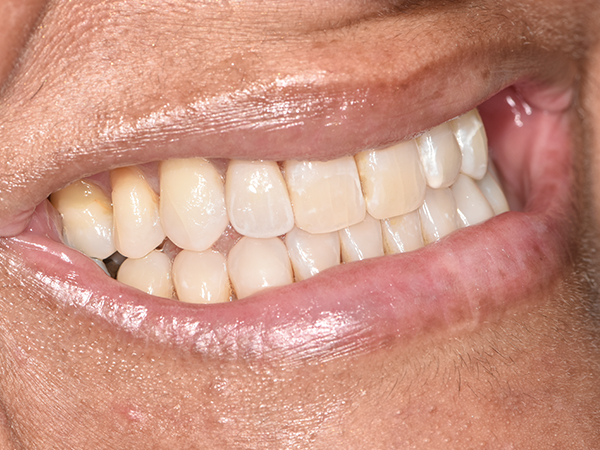
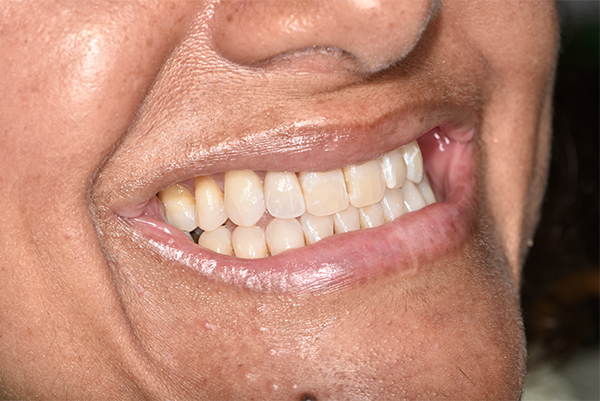
Casos: 3 columnas Antes/Proceso/Después, aspect-ratio 3:2

diff --git a/index.html b/index.html
@@ -1024,26 +1024,28 @@
     }
     .result-card-inner {
       display: grid;
-      grid-template-columns: 1fr 1fr;
+      grid-template-columns: 1fr 1fr 1fr;
       gap: 2px;
-      aspect-ratio: 4/3;
+      aspect-ratio: 3/2;
       background: var(--dark2);
     }
-    .result-before, .result-after {
+    .result-before, .result-proceso, .result-after {
       background: linear-gradient(135deg, var(--dark) 0%, var(--dark2) 100%);
+      background-size: cover;
+      background-position: center;
       display: flex;
       align-items: flex-end;
       justify-content: center;
       padding-bottom: 12px;
     }
     .result-label {
-      font-size: 0.55rem;
+      font-size: 0.5rem;
       font-weight: 700;
       letter-spacing: 3px;
       text-transform: uppercase;
       color: rgba(255,255,255,0.4);
     }
-    /* "Después" usa vino: resultado = identidad de marca, no CTA */
+    .result-proceso .result-label { color: var(--gold); }
     .result-after .result-label { color: var(--wine); }
     .result-info {
       padding: 16px 0;
@@ -2864,13 +2866,17 @@
         <article class="result-card fade-up" aria-label="Caso: Diseño de Sonrisa Completo">
           <div class="result-card-inner">
             <div class="result-before" role="img"
-                 style="background-image:url('assets/caso1-antes.jpg'); background-size:cover; background-position:center;"
-                 aria-label="Antes: sonrisa del paciente antes del diseño de sonrisa con carillas">
+                 style="background-image:url('assets/caso1-antes.jpg');"
+                 aria-label="Antes del diseño de sonrisa con carillas">
               <span class="result-label" aria-hidden="true">Antes</span>
             </div>
+            <div class="result-proceso" role="img"
+                 aria-label="Proceso clínico del diseño de sonrisa">
+              <span class="result-label" aria-hidden="true">Proceso</span>
+            </div>
             <div class="result-after" role="img"
-                 style="background-image:url('assets/caso1-despues.jpg'); background-size:cover; background-position:center;"
-                 aria-label="Después: sonrisa con carillas de porcelana feldespática — Clínica SIMEB Bogotá">
+                 style="background-image:url('assets/caso1-despues.jpg');"
+                 aria-label="Después: sonrisa con carillas de porcelana feldespática">
               <span class="result-label" aria-hidden="true">Después</span>
             </div>
           </div>
@@ -2882,13 +2888,18 @@
         <article class="result-card fade-up delay-1" aria-label="Caso: Rehabilitación con Implantes">
           <div class="result-card-inner">
             <div class="result-before" role="img"
-                 style="background-image:url('assets/caso2-antes.jpg'); background-size:cover; background-position:center;"
-                 aria-label="Antes: paciente con pérdida dental antes de implantes All-on-4">
+                 style="background-image:url('assets/caso2-antes.jpg');"
+                 aria-label="Antes: paciente con pérdida dental">
               <span class="result-label" aria-hidden="true">Antes</span>
             </div>
+            <div class="result-proceso" role="img"
+                 style="background-image:url('assets/caso2-proceso.jpg');"
+                 aria-label="Proceso de implantes dentales">
+              <span class="result-label" aria-hidden="true">Proceso</span>
+            </div>
             <div class="result-after" role="img"
-                 style="background-image:url('assets/caso2-despues.jpg'); background-size:cover; background-position:center;"
-                 aria-label="Después: rehabilitación oral completa con implantes dentales All-on-4 — Dr. Fajardo Bogotá">
+                 style="background-image:url('assets/caso2-despues.jpg');"
+                 aria-label="Después: rehabilitación oral completa con implantes">
               <span class="result-label" aria-hidden="true">Después</span>
             </div>
           </div>
@@ -2900,11 +2911,15 @@
         <article class="result-card fade-up delay-2" aria-label="Caso: Blanqueamiento y Carillas">
           <div class="result-card-inner">
             <div class="result-before" role="img"
-                 aria-label="Antes: dientes con pigmentación antes de blanqueamiento dental profesional">
+                 aria-label="Antes: dientes con pigmentación">
               <span class="result-label" aria-hidden="true">Antes</span>
             </div>
+            <div class="result-proceso" role="img"
+                 aria-label="Proceso de blanqueamiento dental">
+              <span class="result-label" aria-hidden="true">Proceso</span>
+            </div>
             <div class="result-after" role="img"
-                 aria-label="Después: blanqueamiento dental LED más carillas de porcelana — resultado natural — Bogotá">
+                 aria-label="Después: resultado natural con blanqueamiento y carillas">
               <span class="result-label" aria-hidden="true">Después</span>
             </div>
           </div>
